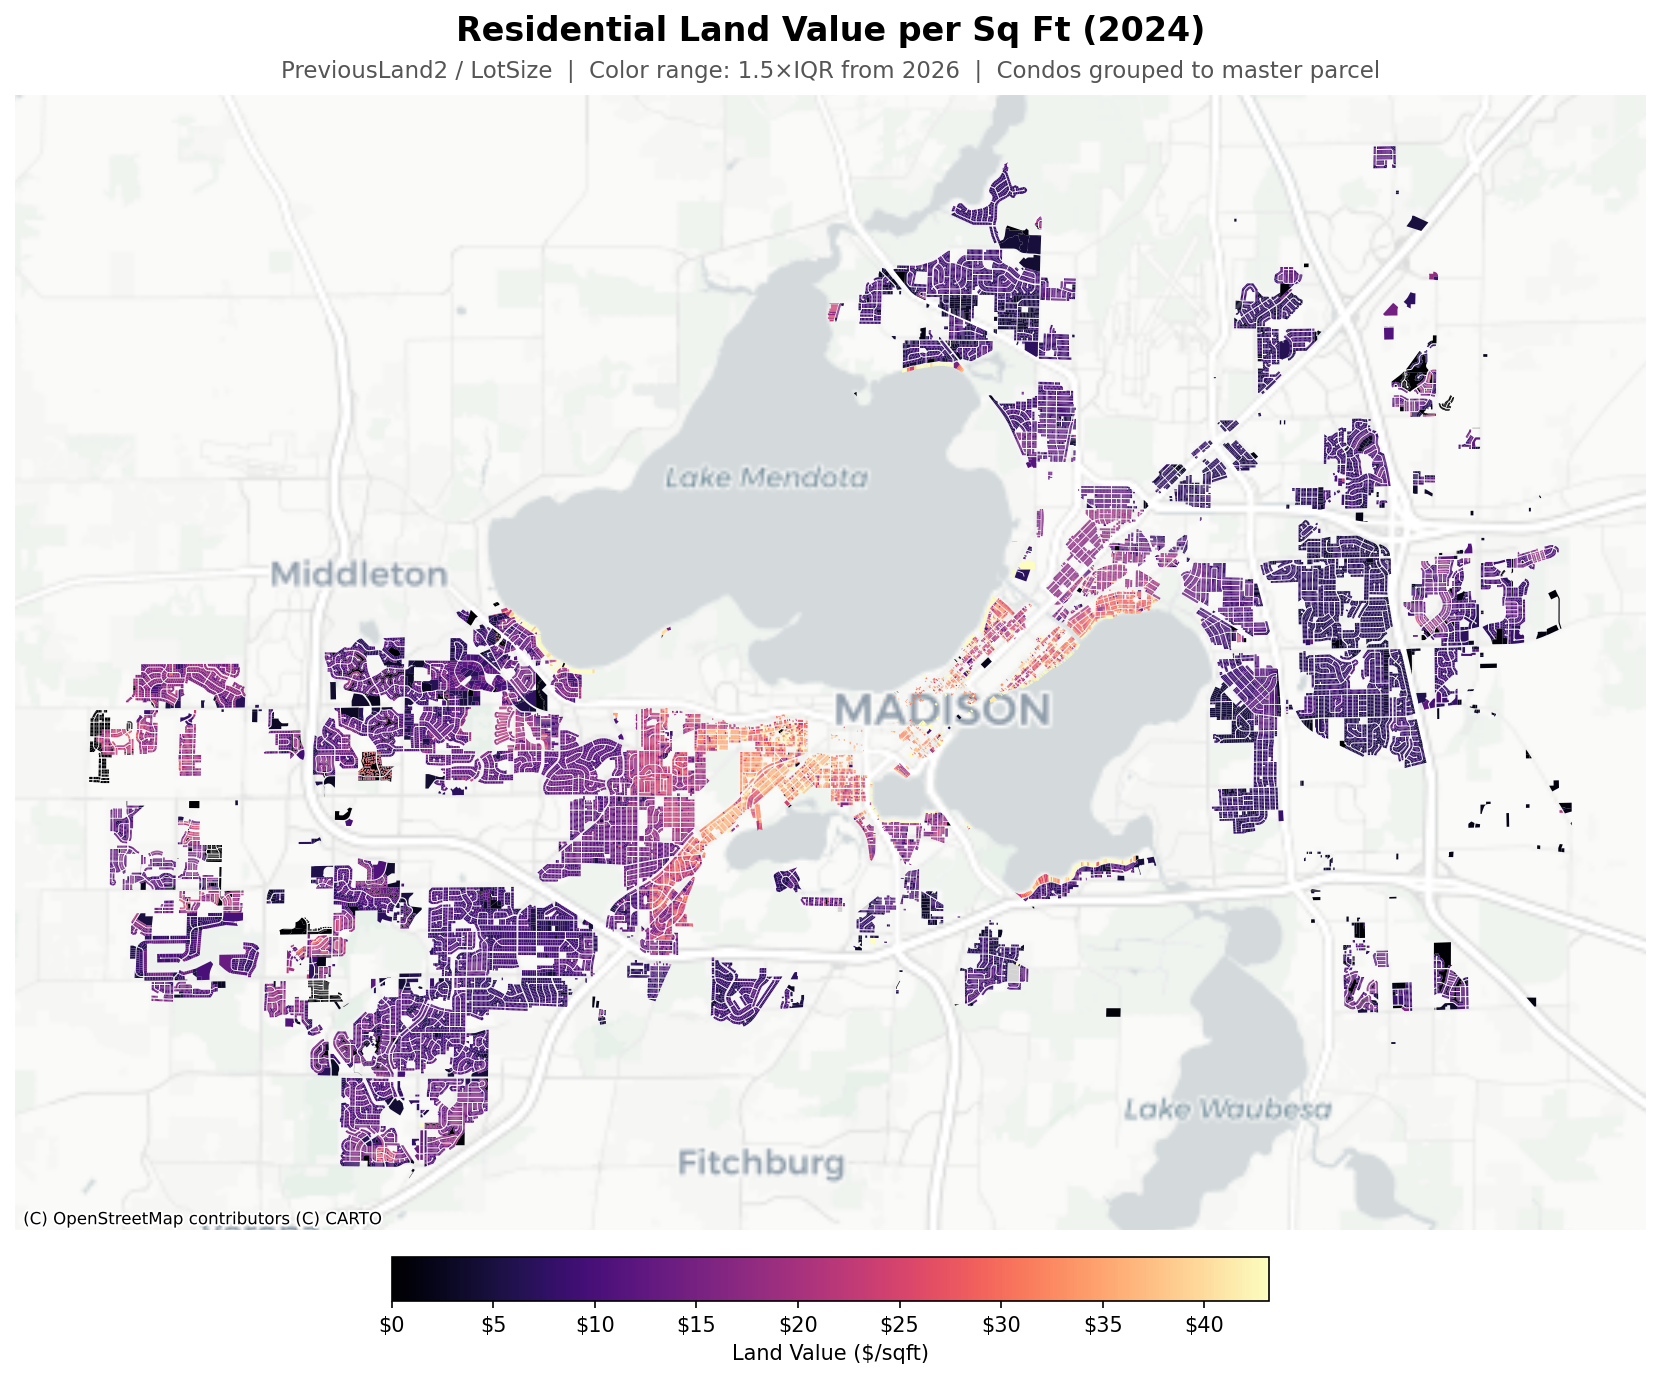
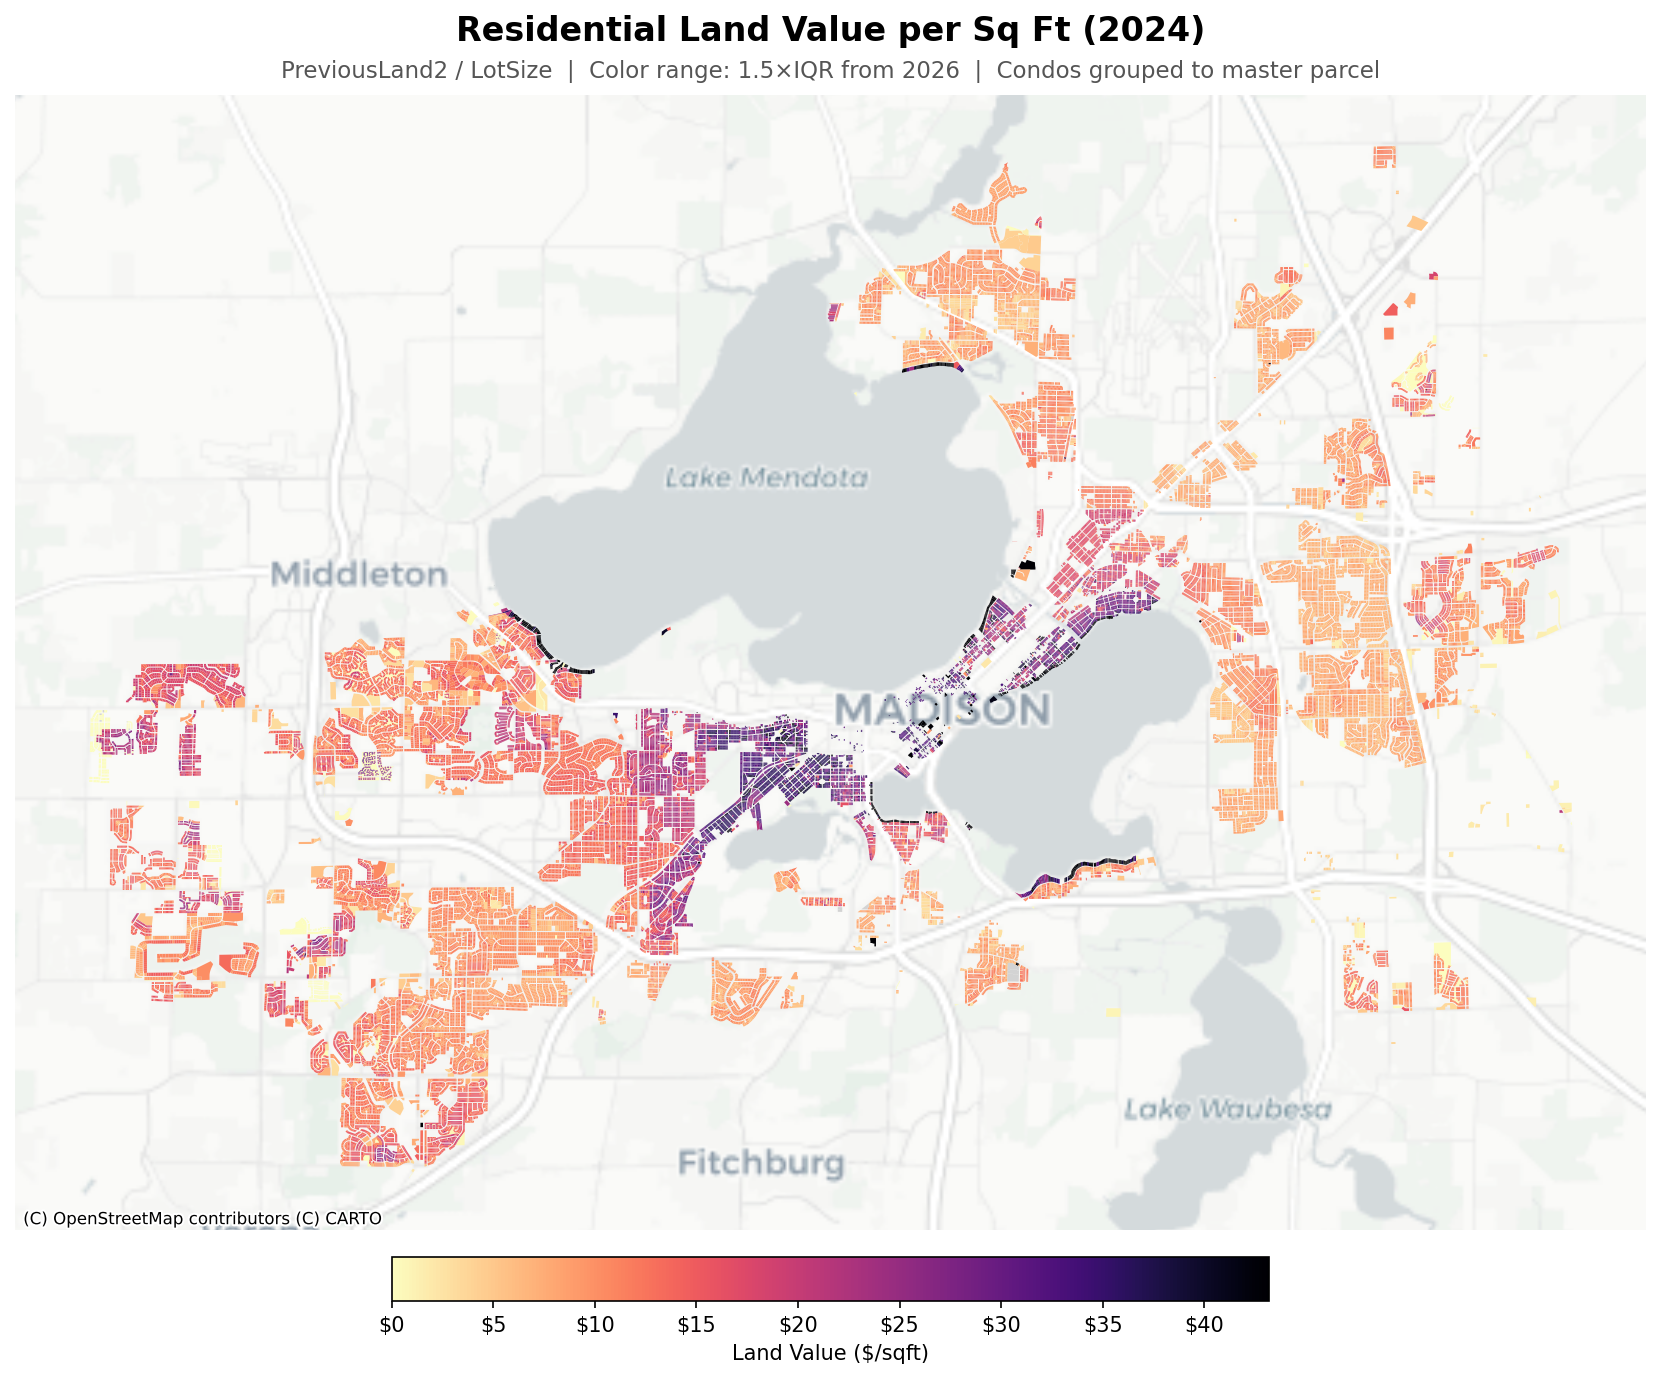
Changing color gradient direction land heatmap

diff --git a/land_value_heatmap/land_value_heatmap.py b/land_value_heatmap/land_value_heatmap.py
@@ -120,7 +120,7 @@ iqr = q3 - q1
 sqft_vmin, sqft_vmax = 0, q3 + 1.5 * iqr
 
 plot_heatmap(
-    merged, "land_sqft_2024", "magma", sqft_vmin, sqft_vmax,
+    merged, "land_sqft_2024", "magma_r", sqft_vmin, sqft_vmax,
     title="Residential Land Value per Sq Ft (2024)",
     subtitle="PreviousLand2 / LotSize  |  Color range: 1.5×IQR from 2026  |  Condos grouped to master parcel",
     cbar_label="Land Value ($/sqft)",
@@ -129,7 +129,7 @@ plot_heatmap(
 )
 
 plot_heatmap(
-    merged, "land_sqft_2026", "magma", sqft_vmin, sqft_vmax,
+    merged, "land_sqft_2026", "magma_r", sqft_vmin, sqft_vmax,
     title="Residential Land Value per Sq Ft (2026)",
     subtitle="CurrentLand / LotSize  |  Color range: 1.5×IQR from 2026  |  Condos grouped to master parcel",
     cbar_label="Land Value ($/sqft)",
@@ -138,7 +138,7 @@ plot_heatmap(
 )
 
 plot_heatmap(
-    merged, "land_sqft_2025", "magma", sqft_vmin, sqft_vmax,
+    merged, "land_sqft_2025", "magma_r", sqft_vmin, sqft_vmax,
     title="Residential Land Value per Sq Ft (2025)",
     subtitle="PreviousLand / LotSize  |  Color range: 1.5×IQR from 2026  |  Condos grouped to master parcel",
     cbar_label="Land Value ($/sqft)",
